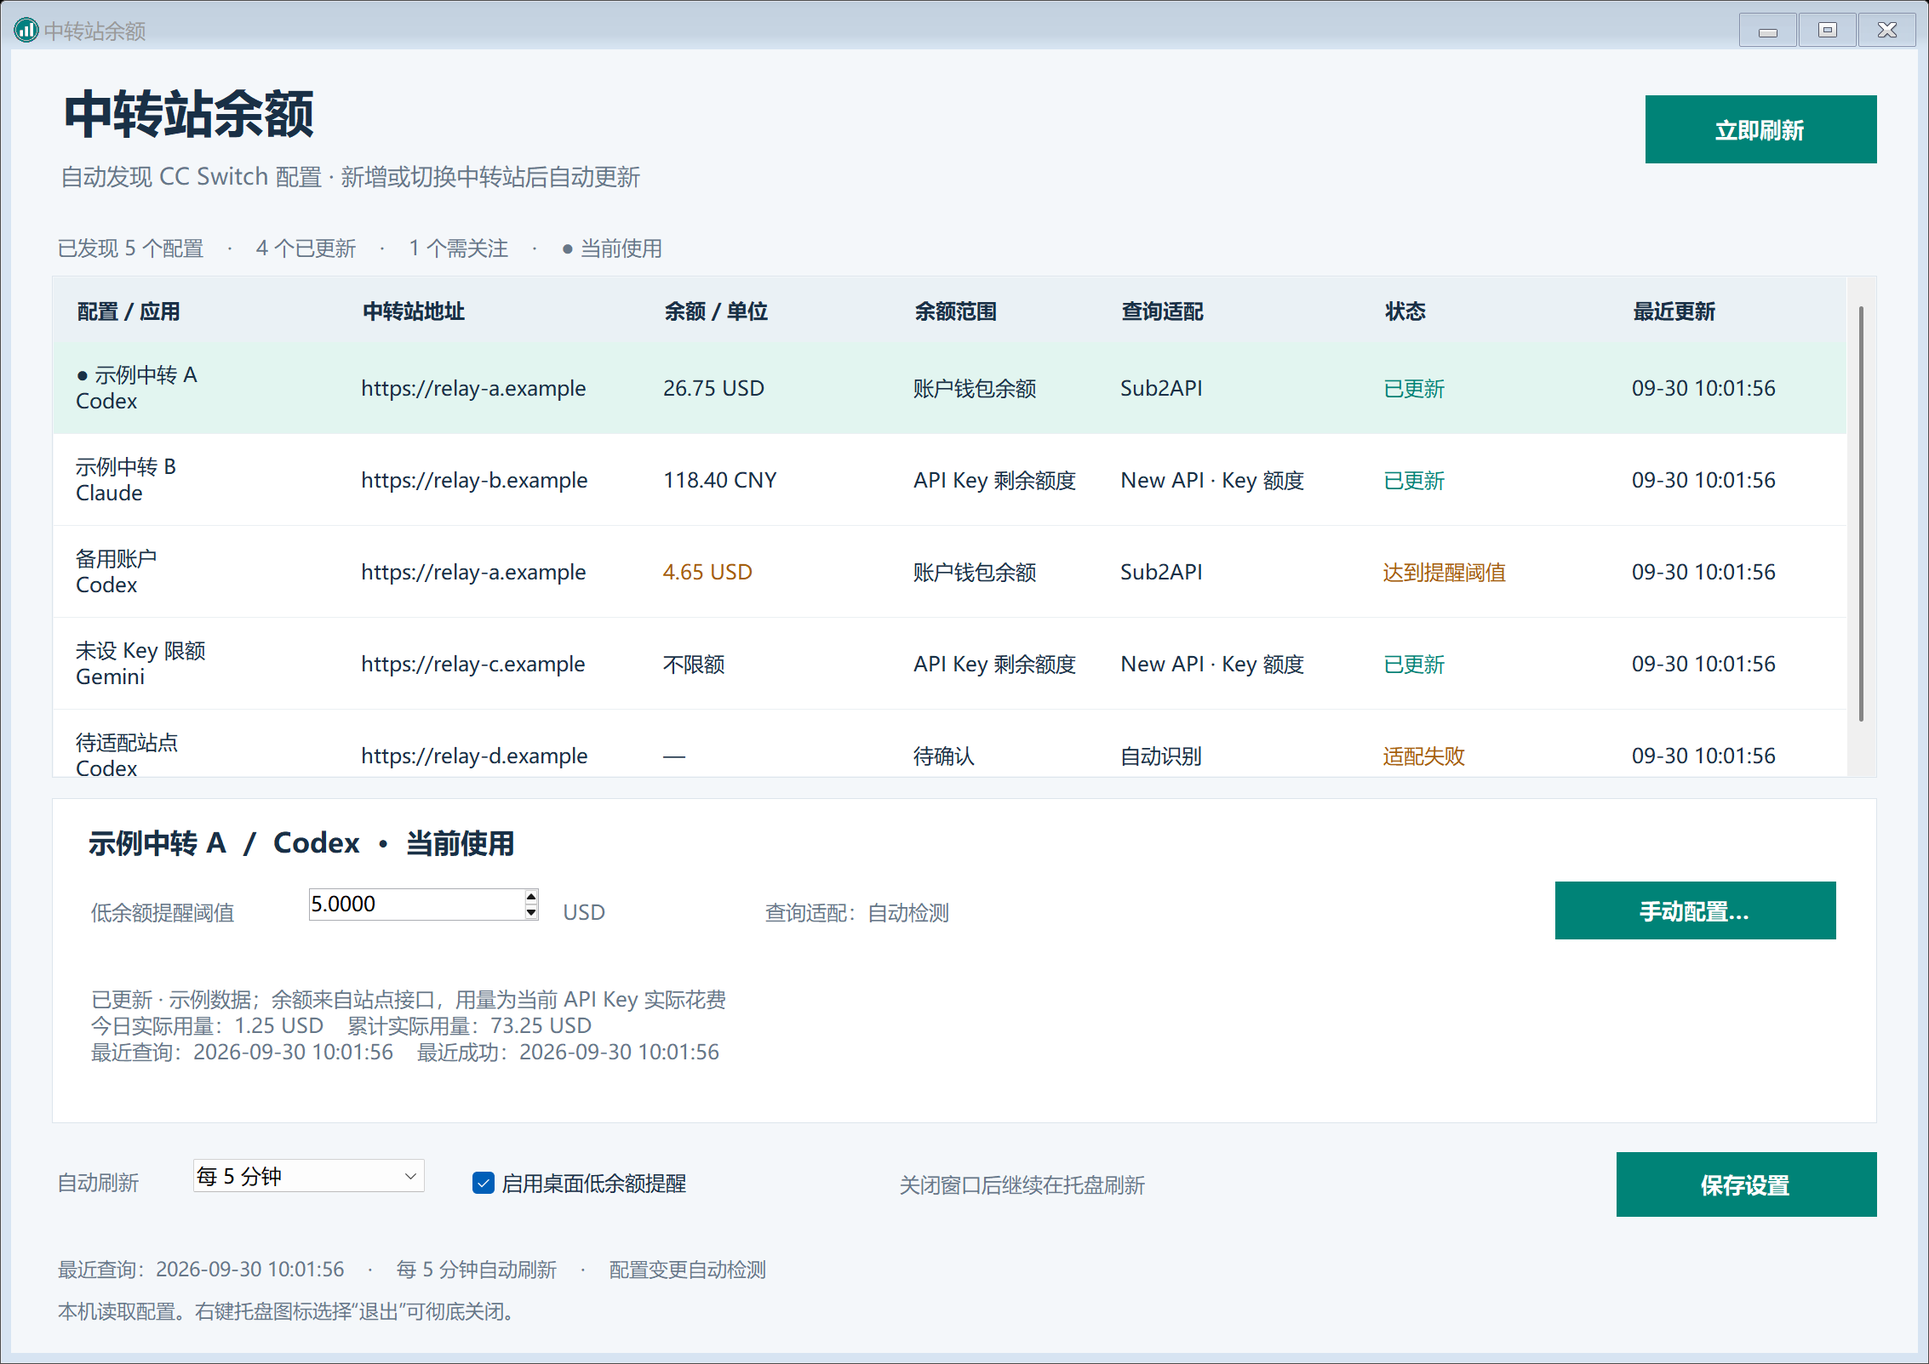
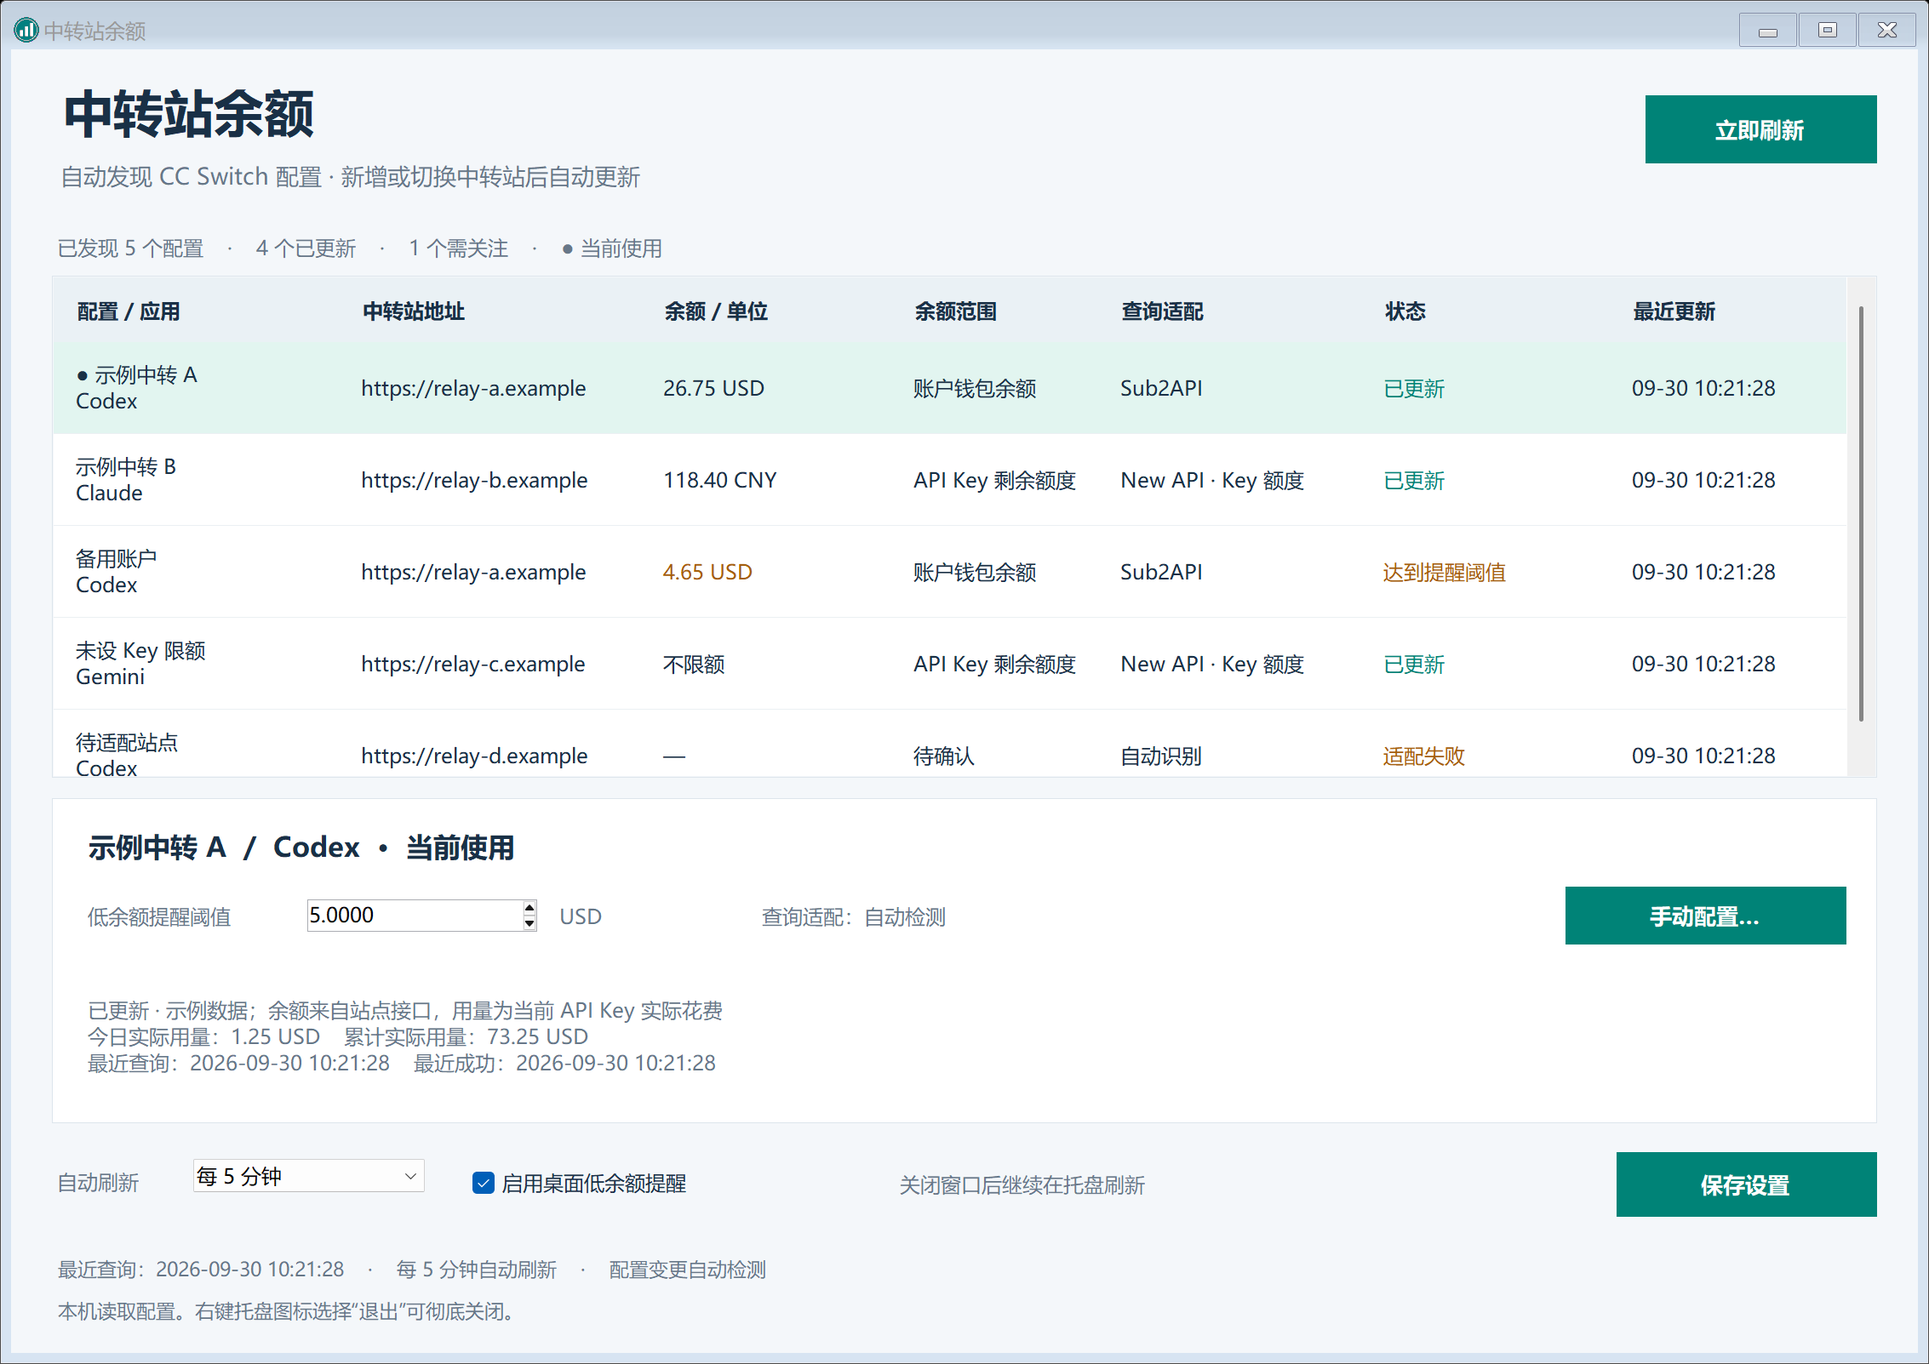
Fix overlapped adaptation buttons and add interaction regression checks

diff --git a/src/BalanceForm.cs b/src/BalanceForm.cs
@@ -132,23 +132,30 @@ namespace RelayBalanceDesktop
             _emptyLabel = LabelAt("尚未发现可查询的中转站配置\r\n请先在 CC Switch 中添加 API 配置，再点击立即刷新。", 0, 0, 500, 100, 11F, FontStyle.Regular, Muted);
             _emptyLabel.TextAlign = ContentAlignment.MiddleCenter; _emptyLabel.Dock = DockStyle.Fill; _emptyLabel.Visible = false;
             tablePanel.Controls.Add(_emptyLabel); layout.Controls.Add(tablePanel, 0, 2);
-            BorderPanel selection = new BorderPanel(); selection.Size = new Size(1072, 191); selection.Dock = DockStyle.Fill; selection.BackColor = Color.White; selection.Margin = new Padding(0, 0, 0, 8);
-            _selectedTitle = LabelAt("选择配置，查看详情和设置", 18, 11, 1018, 29, 12F, FontStyle.Bold, Ink);
-            _selectedTitle.Anchor = AnchorStyles.Top | AnchorStyles.Left | AnchorStyles.Right; selection.Controls.Add(_selectedTitle);
-            selection.Controls.Add(LabelAt("低余额提醒阈值", 20, 54, 132, 25, 9F, FontStyle.Regular, Muted));
-            _threshold = new NumericUpDown(); _threshold.Location = new Point(151, 53); _threshold.Size = new Size(135, 27);
+            BorderPanel selection = new BorderPanel(); selection.Size = new Size(1072, 191); selection.Dock = DockStyle.Fill; selection.BackColor = Color.White; selection.Margin = new Padding(0, 0, 0, 8); selection.Padding = new Padding(18, 11, 18, 12);
+            TableLayoutPanel selectionLayout = new TableLayoutPanel(); selectionLayout.Dock = DockStyle.Fill; selectionLayout.Margin = Padding.Empty;
+            selectionLayout.ColumnCount = 1; selectionLayout.RowCount = 3; selectionLayout.ColumnStyles.Add(new ColumnStyle(SizeType.Percent, 100F));
+            selectionLayout.RowStyles.Add(new RowStyle(SizeType.Absolute, 34F)); selectionLayout.RowStyles.Add(new RowStyle(SizeType.Absolute, 48F)); selectionLayout.RowStyles.Add(new RowStyle(SizeType.Percent, 100F)); selection.Controls.Add(selectionLayout);
+            _selectedTitle = LabelAt("选择配置，查看详情和设置", 0, 0, 1018, 29, 12F, FontStyle.Bold, Ink);
+            _selectedTitle.Dock = DockStyle.Fill; _selectedTitle.Margin = Padding.Empty; selectionLayout.Controls.Add(_selectedTitle, 0, 0);
+            // Separate cells keep the descriptive label out of both button hit areas at every DPI.
+            TableLayoutPanel settingsRow = new TableLayoutPanel(); settingsRow.Dock = DockStyle.Fill; settingsRow.Margin = Padding.Empty; settingsRow.ColumnCount = 4; settingsRow.RowCount = 1;
+            settingsRow.ColumnStyles.Add(new ColumnStyle(SizeType.Absolute, 390F)); settingsRow.ColumnStyles.Add(new ColumnStyle(SizeType.Percent, 100F)); settingsRow.ColumnStyles.Add(new ColumnStyle(SizeType.Absolute, 153F)); settingsRow.ColumnStyles.Add(new ColumnStyle(SizeType.Absolute, 171F)); settingsRow.RowStyles.Add(new RowStyle(SizeType.Percent, 100F)); selectionLayout.Controls.Add(settingsRow, 0, 1);
+            TableLayoutPanel thresholdRow = new TableLayoutPanel(); thresholdRow.Dock = DockStyle.Fill; thresholdRow.Margin = Padding.Empty; thresholdRow.ColumnCount = 3; thresholdRow.RowCount = 1;
+            thresholdRow.ColumnStyles.Add(new ColumnStyle(SizeType.Absolute, 132F)); thresholdRow.ColumnStyles.Add(new ColumnStyle(SizeType.Absolute, 135F)); thresholdRow.ColumnStyles.Add(new ColumnStyle(SizeType.Percent, 100F)); thresholdRow.RowStyles.Add(new RowStyle(SizeType.Percent, 100F)); settingsRow.Controls.Add(thresholdRow, 0, 0);
+            Label thresholdCaption = LabelAt("低余额提醒阈值", 0, 0, 132, 25, 9F, FontStyle.Regular, Muted); thresholdCaption.Dock = DockStyle.Fill; thresholdCaption.Margin = Padding.Empty; thresholdRow.Controls.Add(thresholdCaption, 0, 0);
+            _threshold = new NumericUpDown(); _threshold.Size = new Size(135, 27); _threshold.Anchor = AnchorStyles.Left | AnchorStyles.Right; _threshold.Margin = Padding.Empty;
             _threshold.Minimum = 0; _threshold.Maximum = 1000000000M; _threshold.DecimalPlaces = 4; _threshold.Increment = 1M; _threshold.ThousandsSeparator = true; _threshold.Enabled = false;
             _threshold.ValueChanged += delegate { if (!_updatingSettings && !String.IsNullOrEmpty(_selectedId)) { _thresholds[_selectedId] = (double)_threshold.Value; _editedThresholds.Add(_selectedId); MarkSettingsDirty(); } };
-            selection.Controls.Add(_threshold);
-            _thresholdUnit = LabelAt("", 297, 54, 98, 25, 9F, FontStyle.Regular, Muted); selection.Controls.Add(_thresholdUnit);
-            _selectedAdapter = LabelAt("查询适配：自动检测", 416, 54, 285, 25, 9F, FontStyle.Regular, Muted);
-            _selectedAdapter.Anchor = AnchorStyles.Top | AnchorStyles.Left | AnchorStyles.Right; selection.Controls.Add(_selectedAdapter);
-            _retryDetectionButton = ActionButton("适配", 718, 49, 153, 34); _retryDetectionButton.Anchor = AnchorStyles.Top | AnchorStyles.Right; _retryDetectionButton.Visible = false;
-            _retryDetectionButton.Click += delegate { RetryDetection(); }; selection.Controls.Add(_retryDetectionButton);
-            _adapterButton = ActionButton("手动配置…", 883, 49, 165, 34); _adapterButton.Anchor = AnchorStyles.Top | AnchorStyles.Right; _adapterButton.Enabled = false;
-            _adapterButton.Click += delegate { ConfigureAdapter(); }; selection.Controls.Add(_adapterButton);
-            _details = LabelAt("每个配置单独显示余额和单位；余额范围以站点返回结果为准。", 20, 93, 1025, 80, 9F, FontStyle.Regular, Muted);
-            _details.Anchor = AnchorStyles.Top | AnchorStyles.Left | AnchorStyles.Right; _details.AutoEllipsis = false; selection.Controls.Add(_details); layout.Controls.Add(selection, 0, 3);
+            thresholdRow.Controls.Add(_threshold, 1, 0);
+            _thresholdUnit = LabelAt("", 0, 0, 98, 25, 9F, FontStyle.Regular, Muted); _thresholdUnit.Dock = DockStyle.Fill; _thresholdUnit.Margin = new Padding(10, 0, 0, 0); thresholdRow.Controls.Add(_thresholdUnit, 2, 0);
+            _selectedAdapter = LabelAt("查询适配：自动检测", 0, 0, 285, 25, 9F, FontStyle.Regular, Muted); _selectedAdapter.Dock = DockStyle.Fill; _selectedAdapter.Margin = new Padding(6, 0, 6, 0); settingsRow.Controls.Add(_selectedAdapter, 1, 0);
+            _retryDetectionButton = ActionButton("适配", 0, 0, 147, 34); _retryDetectionButton.Dock = DockStyle.Fill; _retryDetectionButton.Margin = new Padding(6, 7, 0, 7); _retryDetectionButton.Visible = false;
+            _retryDetectionButton.Click += delegate { RetryDetection(); }; settingsRow.Controls.Add(_retryDetectionButton, 2, 0);
+            _adapterButton = ActionButton("手动配置…", 0, 0, 165, 34); _adapterButton.Dock = DockStyle.Fill; _adapterButton.Margin = new Padding(6, 7, 0, 7); _adapterButton.Enabled = false;
+            _adapterButton.Click += delegate { ConfigureAdapter(); }; settingsRow.Controls.Add(_adapterButton, 3, 0);
+            _details = LabelAt("每个配置单独显示余额和单位；余额范围以站点返回结果为准。", 0, 0, 1025, 80, 9F, FontStyle.Regular, Muted);
+            _details.Dock = DockStyle.Fill; _details.Margin = new Padding(0, 7, 0, 0); _details.AutoEllipsis = false; selectionLayout.Controls.Add(_details, 0, 2); layout.Controls.Add(selection, 0, 3);
             Panel global = new Panel(); global.Size = new Size(1072, 67); global.Dock = DockStyle.Fill; global.Margin = Padding.Empty;
             global.Controls.Add(LabelAt("自动刷新", 0, 13, 81, 26, 9F, FontStyle.Regular, Muted));
             _interval = new ComboBox(); _interval.Location = new Point(83, 13); _interval.Size = new Size(138, 30); _interval.DropDownStyle = ComboBoxStyle.DropDownList;

diff --git a/src/Program.cs b/src/Program.cs
@@ -15,8 +15,8 @@ using System.Windows.Forms;
 [assembly: AssemblyDescription("自动发现 CC Switch 配置的本地 API 余额监控")]
 [assembly: AssemblyCompany("Relay Balance contributors")]
 [assembly: AssemblyProduct("Relay Balance Desktop")]
-[assembly: AssemblyVersion("1.1.0.0")]
-[assembly: AssemblyFileVersion("1.1.0.0")]
+[assembly: AssemblyVersion("1.1.1.0")]
+[assembly: AssemblyFileVersion("1.1.1.0")]
 
 namespace RelayBalanceDesktop
 {
@@ -87,10 +87,74 @@ namespace RelayBalanceDesktop
             {
                 form.StartPosition = FormStartPosition.Manual; form.Location = new Point(-30000,-30000); form.ShowInTaskbar = false;
                 form.Show(); form.ApplySnapshot(DemoSnapshot()); Application.DoEvents();
-                using (Bitmap image = new Bitmap(form.Width, form.Height)) { form.DrawToBitmap(image, new Rectangle(0,0,form.Width,form.Height)); image.Save(Path.Combine(directory,"desktop-preview.png"), ImageFormat.Png); }
+                SavePreview(form, Path.Combine(directory,"desktop-preview.png"));
+                Snapshot failedFirst = DemoSnapshot();
+                ProviderSnapshot failed = failedFirst.providers[failedFirst.providers.Count - 1];
+                failedFirst.providers.RemoveAt(failedFirst.providers.Count - 1); failedFirst.providers.Insert(0,failed);
+                form.ApplySnapshot(new Snapshot { providers=new List<ProviderSnapshot>(), intervalSeconds=300 });
+                form.ApplySnapshot(failedFirst); Application.DoEvents();
+                AssertActionReachable((Button)typeof(BalanceForm).GetField("_retryDetectionButton",BindingFlags.NonPublic|BindingFlags.Instance).GetValue(form));
+                AssertActionReachable((Button)typeof(BalanceForm).GetField("_adapterButton",BindingFlags.NonPublic|BindingFlags.Instance).GetValue(form));
+                SavePreview(form, Path.Combine(directory,"adaptation-preview.png"));
                 form.Close();
             }
             return 0;
+        }
+        private static void SavePreview(Form form,string filename)
+        {
+            using(Bitmap image=new Bitmap(form.Width,form.Height)) { form.DrawToBitmap(image,new Rectangle(0,0,form.Width,form.Height));image.Save(filename,ImageFormat.Png); }
+        }
+        // Visible=true alone does not prove that a user can see or click a button.
+        private static void AssertActionReachable(Button button)
+        {
+            if(!button.Visible || !button.Enabled || String.IsNullOrWhiteSpace(button.Text))throw new Exception("action unavailable: "+button.Text);
+            if(!button.Parent.ClientRectangle.Contains(button.Bounds))throw new Exception("action clipped: "+button.Text);
+            foreach(Control sibling in button.Parent.Controls)
+                if(sibling!=button && sibling.Visible && sibling.Bounds.IntersectsWith(button.Bounds))throw new Exception("action overlapped: "+button.Text+" / "+sibling.GetType().Name);
+            Point center=button.PointToScreen(new Point(button.Width/2,button.Height/2));
+            for(Control child=button;child.Parent!=null;child=child.Parent)
+            {
+                Control hit=child.Parent.GetChildAtPoint(child.Parent.PointToClient(center),GetChildAtPointSkip.Invisible);
+                if(hit!=child)throw new Exception("action click intercepted: "+button.Text);
+            }
+        }
+        private static void TestProviderActions()
+        {
+            using(BackendClient backend=new BackendClient())
+            using(BalanceForm form=new BalanceForm(backend,true))
+            {
+                form.StartPosition=FormStartPosition.Manual;form.Location=new Point(-30000,-30000);form.ShowInTaskbar=false;form.Show();
+                DataGridView grid=(DataGridView)typeof(BalanceForm).GetField("_grid",BindingFlags.NonPublic|BindingFlags.Instance).GetValue(form);
+                Button retry=(Button)typeof(BalanceForm).GetField("_retryDetectionButton",BindingFlags.NonPublic|BindingFlags.Instance).GetValue(form);
+                Button manual=(Button)typeof(BalanceForm).GetField("_adapterButton",BindingFlags.NonPublic|BindingFlags.Instance).GetValue(form);
+                Snapshot snapshot=DemoSnapshot();
+                ProviderSnapshot failed=snapshot.providers[snapshot.providers.Count-1];snapshot.providers.RemoveAt(snapshot.providers.Count-1);snapshot.providers.Insert(0,failed);
+                form.ApplySnapshot(snapshot);Application.DoEvents();
+                foreach(int width in new int[]{form.Width,form.Width-22,form.MinimumSize.Width})
+                {
+                    form.Width=width;Application.DoEvents();
+                    for(int round=0;round<3;round++)
+                    {
+                        grid.CurrentCell=grid.Rows[0].Cells[0];form.ApplySnapshot(snapshot);Application.DoEvents();
+                        AssertActionReachable(retry);AssertActionReachable(manual);
+                        grid.CurrentCell=grid.Rows[1].Cells[0];Application.DoEvents();AssertActionReachable(manual);
+                    }
+                }
+                grid.CurrentCell=grid.Rows[0].Cells[0];Application.DoEvents();
+                bool opened=false;Exception modalError=null;
+                using(System.Windows.Forms.Timer timer=new System.Windows.Forms.Timer())
+                {
+                    timer.Interval=100;timer.Tick+=delegate {
+                        foreach(Form window in Application.OpenForms)
+                            if(window!=form && window.GetType().Name=="AdapterDialog") { opened=true;timer.Stop();window.Close();return; }
+                        modalError=new Exception("manual configuration did not open");timer.Stop();
+                    };
+                    timer.Start();manual.PerformClick();timer.Stop();
+                }
+                if(modalError!=null)throw modalError;
+                if(!opened)throw new Exception("manual configuration did not open");
+                form.Close();
+            }
         }
         private static int SelfTest(string directory)
         {
@@ -161,7 +225,8 @@ namespace RelayBalanceDesktop
                     CheckBox notifications=(CheckBox)typeof(BalanceForm).GetField("_notifications",BindingFlags.NonPublic|BindingFlags.Instance).GetValue(form);
                     if(notifications.Checked)throw new Exception("notification reload");
                 }
-                File.WriteAllText(report,"{\"passed\":true,\"checks\":[\"embedded runtime integrity\",\"empty database isolation\",\"dynamic providers\",\"settings persistence\",\"child process cleanup\",\"snapshot validation\",\"minimize to tray\",\"restore from tray\",\"close to tray\",\"tray exit and worker cleanup\",\"notification preference persistence\"]}",new UTF8Encoding(false));
+                TestProviderActions();
+                File.WriteAllText(report,"{\"passed\":true,\"checks\":[\"embedded runtime integrity\",\"empty database isolation\",\"dynamic providers\",\"settings persistence\",\"child process cleanup\",\"snapshot validation\",\"minimize to tray\",\"restore from tray\",\"close to tray\",\"tray exit and worker cleanup\",\"notification preference persistence\",\"adaptation and manual buttons reachable after selection refresh and resize\",\"manual configuration opens\"]}",new UTF8Encoding(false));
                 return 0;
             }
             catch (Exception ex) { File.WriteAllText(report,new JavaScriptSerializer().Serialize(new {passed=false,error=ex.Message}),new UTF8Encoding(false));return 1; }

diff --git a/src/RuntimeBundle.cs b/src/RuntimeBundle.cs
@@ -10,7 +10,7 @@ namespace RelayBalanceDesktop
     {
         public static string Prepare()
         {
-            string directory = Path.Combine(Program.DataDirectory, "runtime", "1.1.0-" + RuntimeManifest.PayloadId);
+            string directory = Path.Combine(Program.DataDirectory, "runtime", "1.1.1-" + RuntimeManifest.PayloadId);
             Directory.CreateDirectory(directory);
             Extract(directory, "node.exe", "Payload.Node", RuntimeManifest.NodeHash, true);
             Extract(directory, "core.mjs", "Payload.Core", RuntimeManifest.CoreHash, false);

diff --git a/README.md b/README.md
@@ -6,6 +6,10 @@
 
 ![桌面窗口预览，所有配置和数值均为虚构示例](docs/desktop-preview.png)
 
+v1.1.1 修复了详情说明文字覆盖“适配”和“手动配置…”按钮的问题。两个入口使用独立布局区域，在缩放窗口和刷新列表后仍能正常显示与点击。
+
+![选中适配失败配置后的两个操作入口，所有内容均为虚构示例](docs/adaptation-preview.png)
+
 ## 下载和使用
 
 1. 使用 Windows 10/11 x64，系统需具备 .NET Framework 4.8；先在 CC Switch 中配置站点地址及 API Key。
@@ -20,7 +24,7 @@
 
 ## 能查询哪些站点
 
-v1.1.0 按 CC Switch 配置和余额接口协议工作，没有品牌白名单或黑名单。能发现配置不代表一定能查询余额。自动识别未成功时，状态显示“适配失败”；选中该配置，点击“适配”即可重新尝试。
+v1.1.1 按 CC Switch 配置和余额接口协议工作，没有品牌白名单或黑名单。能发现配置不代表一定能查询余额。自动识别未成功时，状态显示“适配失败”；选中该配置，点击“适配”即可重新尝试。
 
 “适配”使用当前配置重试软件已支持的余额协议，遵守站点限流等待时间，不保证识别成功，也不会学习任意接口、调用云端 AI 或执行站点脚本。自动适配失败的配置会暂停周期性探测，“立即刷新”也不会反复探测它；点击“适配”，或更换该配置的 Key、地址、适配方式后，才重新尝试。其他配置的余额仍按设定刷新。有尚未保存的适配修改时，请先保存再点击“适配”。
 
@@ -64,7 +68,7 @@ node --test tests/*.test.mjs
 
 测试使用虚构凭据、临时数据库和模拟 HTTP 响应，不需要真实账户。GitHub Actions 在 Windows 和 Node.js 24 上运行离线测试、构建和桌面自检。
 
-可进一步运行桌面自检，检查内置运行时、空数据库、设置保存、托盘操作及后台退出清理：
+可进一步运行桌面自检，检查内置运行时、空数据库、设置保存、托盘操作、后台退出清理、操作按钮遮挡及手动配置窗口打开：
 
 ```powershell
 $testDirectory = Join-Path $env:TEMP ('relay-balance-test-' + [Guid]::NewGuid().ToString('N'))
